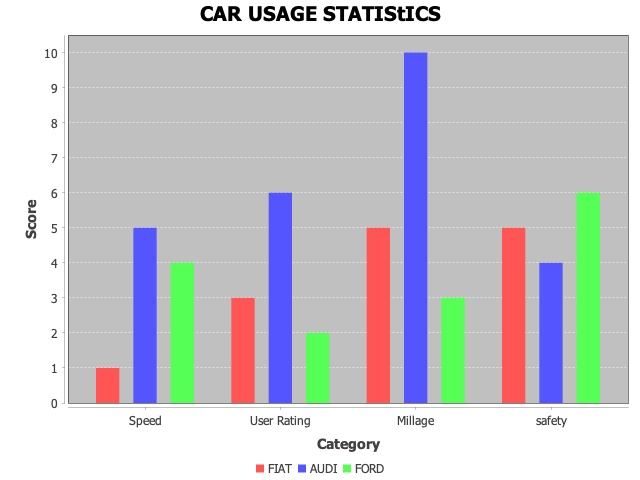
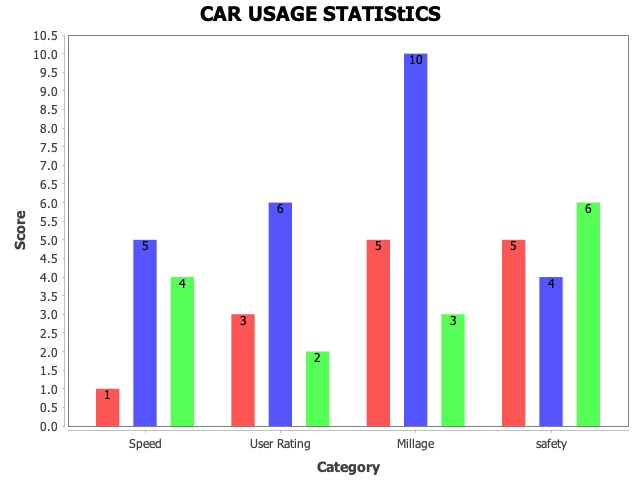
add

diff --git a/mavenprojectSCR/src/main/java/web/jfree/BarChart.java b/mavenprojectSCR/src/main/java/web/jfree/BarChart.java
@@ -8,6 +8,7 @@ package web.jfree;
  *
  * @author andrewhinton
  */
+import java.awt.Color;
 import java.io.*;
 
 import org.jfree.chart.ChartFactory;
@@ -15,44 +16,64 @@ import org.jfree.chart.JFreeChart;
 import org.jfree.chart.plot.PlotOrientation;
 import org.jfree.data.category.DefaultCategoryDataset;
 import org.jfree.chart.ChartUtils;
+import org.jfree.chart.labels.ItemLabelAnchor;
+import org.jfree.chart.labels.ItemLabelPosition;
+import org.jfree.chart.labels.StandardCategoryItemLabelGenerator;
+import org.jfree.chart.plot.CategoryPlot;
+import org.jfree.chart.renderer.category.CategoryItemRenderer;
+import org.jfree.chart.ui.TextAnchor;
 
 public class BarChart {
-   
-   public static void main( String[ ] args )throws Exception {
-      final String fiat = "FIAT";
-      final String audi = "AUDI";
-      final String ford = "FORD";
-      final String speed = "Speed";
-      final String millage = "Millage";
-      final String userrating = "User Rating";
-      final String safety = "safety";
 
-      final DefaultCategoryDataset dataset = new DefaultCategoryDataset( );
-      dataset.addValue( 1.0 , fiat , speed );
-      dataset.addValue( 3.0 , fiat , userrating );
-      dataset.addValue( 5.0 , fiat , millage );
-      dataset.addValue( 5.0 , fiat , safety );
+    public static void main(String[] args) throws Exception {
+        final String fiat = "FIAT";
+        final String audi = "AUDI";
+        final String ford = "FORD";
+        final String speed = "Speed";
+        final String millage = "Millage";
+        final String userrating = "User Rating";
+        final String safety = "safety";
 
-      dataset.addValue( 5.0 , audi , speed );
-      dataset.addValue( 6.0 , audi , userrating );
-      dataset.addValue( 10.0 , audi , millage );
-      dataset.addValue( 4.0 , audi , safety );
+        final DefaultCategoryDataset dataset = new DefaultCategoryDataset();
+        dataset.addValue(1.0, fiat, speed);
+        dataset.addValue(3.0, fiat, userrating);
+        dataset.addValue(5.0, fiat, millage);
+        dataset.addValue(5.0, fiat, safety);
+//dataset.
+        dataset.addValue(5.0, audi, speed);
+        dataset.addValue(6.0, audi, userrating);
+        dataset.addValue(10.0, audi, millage);
+        dataset.addValue(4.0, audi, safety);
 
-      dataset.addValue( 4.0 , ford , speed );
-      dataset.addValue( 2.0 , ford , userrating );
-      dataset.addValue( 3.0 , ford , millage );
-      dataset.addValue( 6.0 , ford , safety );
+        dataset.addValue(4.0, ford, speed);
+        dataset.addValue(2.0, ford, userrating);
+        dataset.addValue(3.0, ford, millage);
+        dataset.addValue(6.0, ford, safety);
 
-      JFreeChart barChart = ChartFactory.createBarChart(
-         "CAR USAGE STATIStICS", 
-         "Category", "Score", 
-         dataset,PlotOrientation.VERTICAL, 
-         true, true, false);
-         
-      int width = 640;    /* Width of the image */
-      int height = 480;   /* Height of the image */ 
-      File BarChart = new File( "BarChart.jpeg" ); 
-      ChartUtils.saveChartAsJPEG( BarChart , barChart , width , height );
-       System.out.println("Chart saved to " + BarChart.getAbsolutePath());
-   }
+        JFreeChart barChart = ChartFactory.createBarChart(
+                "CAR USAGE STATIStICS",
+                "Category", "Score",
+                dataset, PlotOrientation.VERTICAL,
+                false, false, false);
+
+        CategoryItemRenderer renderer = ((CategoryPlot) barChart.getPlot()).getRenderer();
+
+        //renderer.setBaseItemLabelGenerator();
+        renderer.setDefaultItemLabelGenerator(new StandardCategoryItemLabelGenerator());
+        //renderer.setBaseItemLabelsVisible(true);
+        renderer.setDefaultItemLabelsVisible(true);
+        ItemLabelPosition position = new ItemLabelPosition(ItemLabelAnchor.OUTSIDE12,
+                TextAnchor.TOP_CENTER);
+        renderer.setDefaultPositiveItemLabelPosition(position);
+        
+            barChart.setBackgroundPaint(Color.WHITE);
+        barChart.getPlot().setBackgroundPaint(Color.WHITE);
+        int width = 640;
+        /* Width of the image */
+        int height = 480;
+        /* Height of the image */
+        File BarChart = new File("BarChart.jpeg");
+        ChartUtils.saveChartAsJPEG(BarChart, barChart, width, height);
+        System.out.println("Chart saved to " + BarChart.getAbsolutePath());
+    }
 }

diff --git a/mavenprojectSCR/src/main/java/web/powerpoint/entity/BarChartEntity.java b/mavenprojectSCR/src/main/java/web/powerpoint/entity/BarChartEntity.java
@@ -1,0 +1,30 @@
+/*
+ * Click nbfs://nbhost/SystemFileSystem/Templates/Licenses/license-default.txt to change this license
+ * Click nbfs://nbhost/SystemFileSystem/Templates/Classes/Class.java to edit this template
+ */
+package web.powerpoint.entity;
+import java.util.List;
+import lombok.AllArgsConstructor;
+import lombok.Builder;
+import lombok.Data; 
+import lombok.Getter;
+import lombok.Setter;
+import web.page.PieChart;
+/**
+ *
+ * @author andrewhinton
+ */
+@Getter
+@Setter
+@Builder
+@AllArgsConstructor // Generates the constructor needed by @Builder
+//@Data // Generates getters, setters, toString, equals, hashCode, and a required-args constructor
+public class BarChartEntity {
+    private String topTitle;
+    private String bottomTitle;
+    private String yAxis;
+    private String xAxis;
+    private String fileName;
+    private List<BarChartDataEntity> barChartDataEntityList;
+    
+}

diff --git a/mavenprojectSCR/src/main/java/web/powerpoint/entity/BarChartDataEntity.java b/mavenprojectSCR/src/main/java/web/powerpoint/entity/BarChartDataEntity.java
@@ -1,0 +1,28 @@
+/*
+ * Click nbfs://nbhost/SystemFileSystem/Templates/Licenses/license-default.txt to change this license
+ * Click nbfs://nbhost/SystemFileSystem/Templates/Classes/Class.java to edit this template
+ */
+package web.powerpoint.entity;
+import java.util.List;
+import lombok.AllArgsConstructor;
+import lombok.Builder;
+import lombok.Data; 
+import lombok.Getter;
+import lombok.Setter;
+import web.page.PieChart;
+/**
+ *
+ * @author andrewhinton
+ */
+@Getter
+@Setter
+@Builder
+@AllArgsConstructor // Generates the constructor needed by @Builder
+//@Data // Generates getters, setters, toString, equals, hashCode, and a required-args constructor
+public class BarChartDataEntity {
+    private double doubleValue;
+    private String rowKey;
+    private String columnKey;
+  
+    
+}

diff --git a/mavenprojectSCR/src/main/java/web/powerpoint/slide/service/PowerPointServiceImpl.java b/mavenprojectSCR/src/main/java/web/powerpoint/slide/service/PowerPointServiceImpl.java
@@ -2,7 +2,7 @@
  * Click nbfs://nbhost/SystemFileSystem/Templates/Licenses/license-default.txt to change this license
  * Click nbfs://nbhost/SystemFileSystem/Templates/Classes/Class.java to edit this template
  */
-package web.powerpoint.slide;
+package web.powerpoint.slide.service;
 
 import java.io.File;
 import java.io.FileInputStream;
@@ -24,6 +24,8 @@ import web.google.slide.GoogleHelper;
 import web.model.Contact;
 
 import web.model.WizardData;
+import web.powerpoint.slide.SlideDataHelper;
+import web.powerpoint.slide.SlideInterface;
 
 import web.repository.WizardDataRepository;
 import web.repository.WizardRepository;

diff --git a/mavenprojectSCR/src/main/java/web/powerpoint/slide/service/PieChartWithPercentageServiceImpl.java b/mavenprojectSCR/src/main/java/web/powerpoint/slide/service/PieChartWithPercentageServiceImpl.java
@@ -2,8 +2,9 @@
  * Click nbfs://nbhost/SystemFileSystem/Templates/Licenses/license-default.txt to change this license
  * Click nbfs://nbhost/SystemFileSystem/Templates/Classes/Class.java to edit this template
  */
-package web.powerpoint.slide;
+package web.powerpoint.slide.service;
 
+import web.powerpoint.slide.service.PieChartWithPercentageService;
 import java.awt.Color;
 import java.io.File;
 import java.text.DecimalFormat;

diff --git a/mavenprojectSCR/src/main/java/web/powerpoint/FileDownLoadRestController.java b/mavenprojectSCR/src/main/java/web/powerpoint/FileDownLoadRestController.java
@@ -36,7 +36,7 @@ import org.springframework.web.bind.annotation.RequestMethod;
 import web.controller.WizardController;
 import web.data.MyUserPrincipal;
 import web.model.Contact;
-import web.powerpoint.slide.PowerPointService;
+import web.powerpoint.slide.service.PowerPointService;
 
 @RestController
 public class FileDownLoadRestController {

diff --git a/mavenprojectSCR/src/main/java/web/powerpoint/slide/service/PowerPointService.java b/mavenprojectSCR/src/main/java/web/powerpoint/slide/service/PowerPointService.java
@@ -2,7 +2,7 @@
  * Click nbfs://nbhost/SystemFileSystem/Templates/Licenses/license-default.txt to change this license
  * Click nbfs://nbhost/SystemFileSystem/Templates/Classes/Class.java to edit this template
  */
-package web.powerpoint.slide;
+package web.powerpoint.slide.service;
 
 import java.io.IOException;
 import java.io.InputStream;

diff --git a/mavenprojectSCR/src/main/java/web/powerpoint/slide/service/PieChartWithPercentageService.java b/mavenprojectSCR/src/main/java/web/powerpoint/slide/service/PieChartWithPercentageService.java
@@ -2,7 +2,7 @@
  * Click nbfs://nbhost/SystemFileSystem/Templates/Licenses/license-default.txt to change this license
  * Click nbfs://nbhost/SystemFileSystem/Templates/Classes/Class.java to edit this template
  */
-package web.powerpoint.slide;
+package web.powerpoint.slide.service;
 
 import web.powerpoint.entity.PieEntity;
 

diff --git a/mavenprojectSCR/src/test/java/web/powerpoint/slide/PowerPointServiceImplTest.java b/mavenprojectSCR/src/test/java/web/powerpoint/slide/PowerPointServiceImplTest.java
@@ -4,6 +4,7 @@
  */
 package web.powerpoint.slide;
 
+import web.powerpoint.slide.service.PowerPointService;
 import java.util.List;
 import java.util.Optional;
 import org.junit.jupiter.api.AfterEach;
